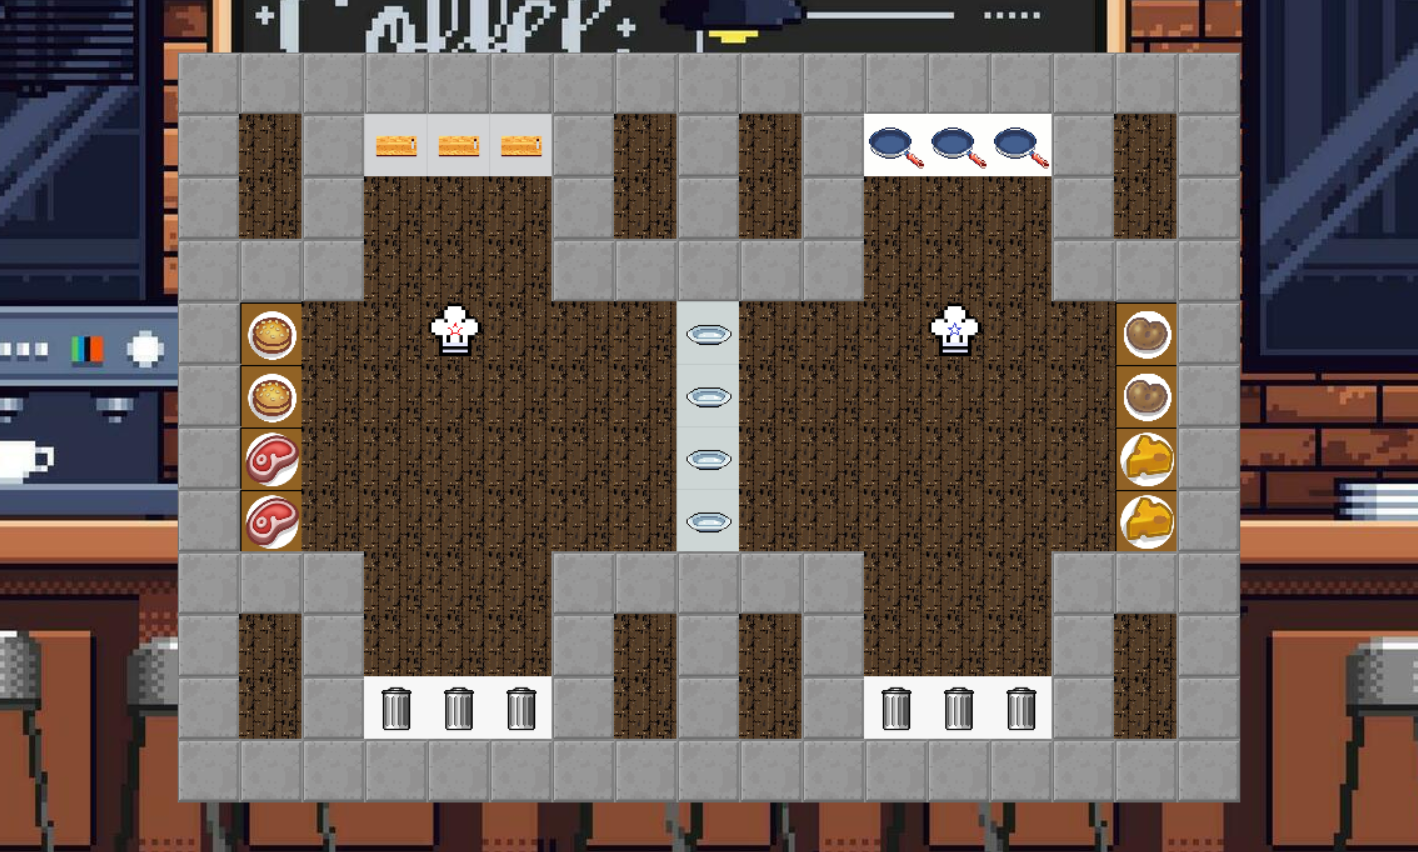
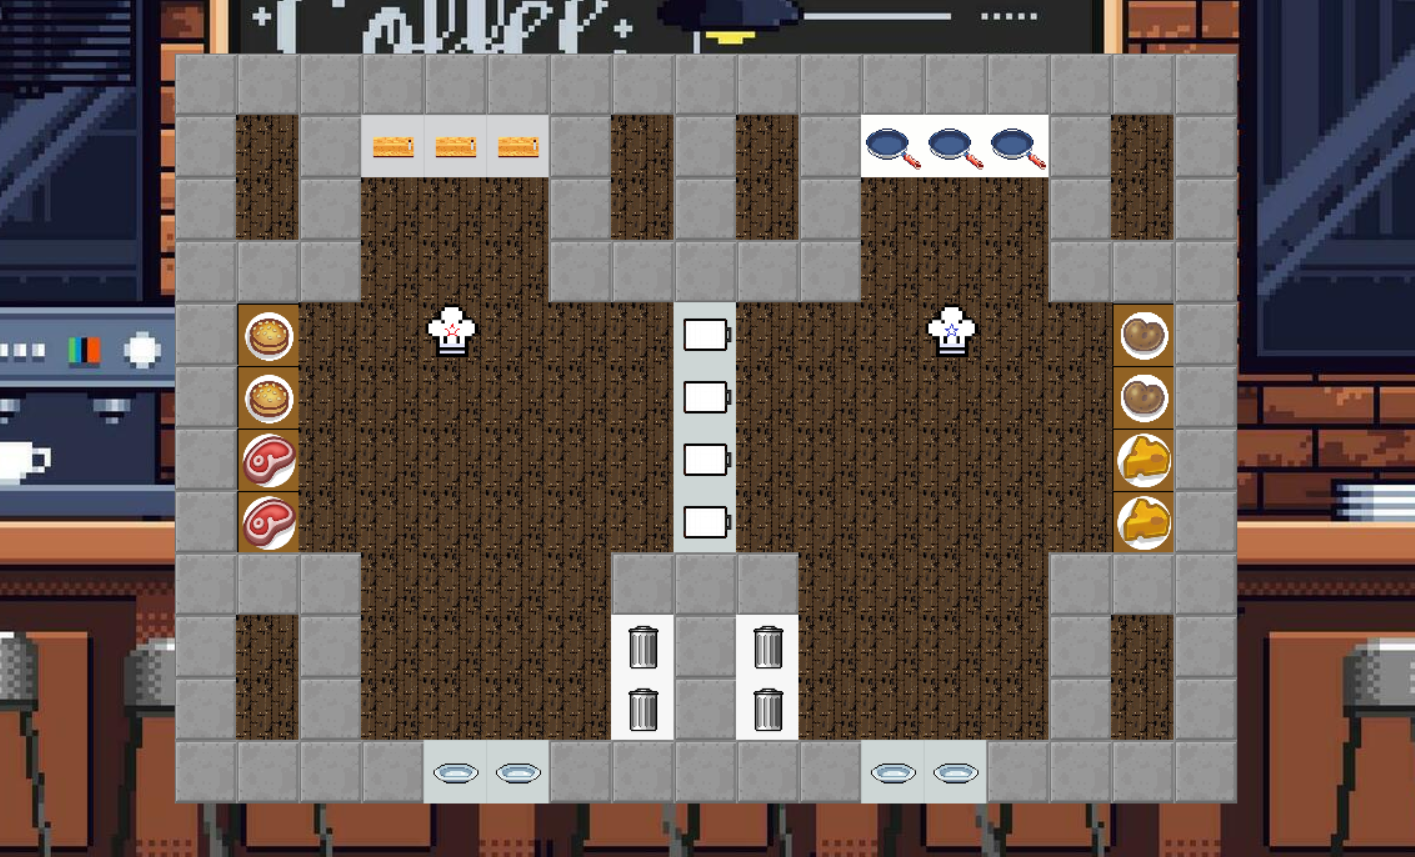
Añadidos mostradores simples

diff --git a/assets/classes.py b/assets/classes.py
@@ -477,7 +477,7 @@ class EscenarioList:
             # Simbología:
             # 0 = Suelo
             # 1 = Pared
-            # 2 = Mostrador
+            # 2 = Mostrador (Si se coloca abajo es para entregas)
             # 3 = Almacén 1
             # 4 = Almacén 2
             # 5 = Almacén 3
@@ -624,7 +624,7 @@ class EscenarioList:
             # Simbología:
             # 0 = Suelo
             # 1 = Pared
-            # 2 = Mostrador
+            # 2 = Mostrador (Si se coloca abajo es para entregas)
             # 3 = Almacén 1
             # 4 = Almacén 2
             # 5 = Almacén 3
@@ -634,24 +634,24 @@ class EscenarioList:
             # 9 = Estación 2
     
             layout = [
-                [1, 1, 1, 1, 1, 1, 1, 1, 1, 1, 1],
-                [1, 3, 3, 4, 4, 1, 5, 5, 6, 6, 1],
-                [1, 0, 0, 0, 0, 1, 0, 0, 0, 0, 1],
-                [1, 0, 0, 0, 0, 1, 0, 0, 0, 0, 1],
-                [1, 9, 0, 0, 0, 1, 0, 0, 0, 9, 1],
-                [1, 1, 1, 1, 0, 0, 0, 1, 1, 1, 1],
-                [1, 0, 0, 0, 0, 1, 0, 0, 0, 0, 1],
-                [1, 0, 0, 0, 0, 1, 0, 0, 0, 0, 1],
-                [1, 7, 7, 7, 0, 1, 0, 8, 8, 8, 1],
-                [1, 0, 0, 0, 0, 1, 0, 0, 0, 0, 1],
-                [1, 0, 0, 0, 0, 1, 0, 0, 0, 0, 1],
-                [1, 1, 1, 2, 2, 1, 2, 2, 1, 1, 1]
+                [1, 1, 1, 1, 1, 1, 1, 1, 1, 1, 1, 1],
+                [1, 3, 3, 4, 4, 1, 1, 5, 5, 6, 6, 1],
+                [1, 0, 0, 0, 0, 7, 1, 0, 0, 0, 0, 1],
+                [1, 0, 0, 0, 0, 7, 1, 0, 0, 0, 0, 1],
+                [1, 0, 0, 0, 0, 8, 1, 0, 0, 0, 0, 1],
+                [1, 9, 0, 0, 0, 8, 1, 0, 0, 0, 0, 1],
+                [1, 1, 2, 2, 1, 1, 1, 0, 0, 0, 0, 1],
+                [1, 0, 0, 0, 0, 0, 0, 0, 0, 0, 0, 1],
+                [1, 0, 0, 0, 0, 0, 0, 0, 0, 0, 0, 1],
+                [1, 0, 0, 0, 0, 0, 0, 0, 0, 0, 0, 1],
+                [1, 0, 0, 0, 0, 0, 0, 0, 0, 0, 9, 1],
+                [1, 1, 1, 1, 2, 2, 2, 2, 1, 1, 1, 1]
             ],
             
             # Tamaños y posiciones
             tamaño = 50,
-            posChef1 = [4, 9],
-            posChef2 = [7, 9],
+            posChef1 = [3, 4],
+            posChef2 = [8, 8],
             
             # Tipos de estaciones
             caja3 = Caja("Lechugas", Item("Lechuga", 1, "assets/img/lechuga.png")),
@@ -763,7 +763,7 @@ class EscenarioList:
             # Simbología:
             # 0 = Suelo
             # 1 = Pared
-            # 2 = Mostrador
+            # 2 = Mostrador (Si se coloca abajo es para entregas)
             # 3 = Almacén 1
             # 4 = Almacén 2
             # 5 = Almacén 3
@@ -781,10 +781,10 @@ class EscenarioList:
                 [1, 5, 0, 0, 0, 0, 0, 0, 2, 0, 0, 0, 0, 0, 0, 4, 1],
                 [1, 3, 0, 0, 0, 0, 0, 0, 2, 0, 0, 0, 0, 0, 0, 6, 1],
                 [1, 3, 0, 0, 0, 0, 0, 0, 2, 0, 0, 0, 0, 0, 0, 6, 1],
-                [1, 1, 1, 0, 0, 0, 1, 1, 1, 1, 1, 0, 0, 0, 1, 1, 1],
-                [1, 0, 1, 0, 0, 0, 1, 0, 1, 0, 1, 0, 0, 0, 1, 0, 1],
-                [1, 0, 1, 9, 9, 9, 1, 0, 1, 0, 1, 9, 9, 9, 1, 0, 1],
-                [1, 1, 1, 1, 1, 1, 1, 1, 1, 1, 1, 1, 1, 1, 1, 1, 1],
+                [1, 1, 1, 0, 0, 0, 0, 1, 1, 1, 0, 0, 0, 0, 1, 1, 1],
+                [1, 0, 1, 0, 0, 0, 0, 9, 1, 9, 0, 0, 0, 0, 1, 0, 1],
+                [1, 0, 1, 0, 0, 0, 0, 9, 1, 9, 0, 0, 0, 0, 1, 0, 1],
+                [1, 1, 1, 1, 2, 2, 1, 1, 1, 1, 1, 2, 2, 1, 1, 1, 1],
             ],
             
             # Tamaños y posiciones

diff --git a/assets/game_screen.py b/assets/game_screen.py
@@ -186,12 +186,7 @@ class GameFrame(StyledFrame):
             self.canvas_bg.destroy()
             self.canvas_fg.destroy()
             
-            self.mostradores = [
-                Mostrador("Mostrador 1", self.default_item),
-                Mostrador("Mostrador 2", self.default_item),
-                Mostrador("Mostrador 3", self.default_item),
-                Mostrador("Mostrador 4", self.default_item)
-            ]
+            self.mostradores = []
             self.mostradores_img = []
         
             # Se eliminan los pedidos
@@ -219,12 +214,7 @@ class GameFrame(StyledFrame):
         self.fase_tiempo = 1 # Fase 1
         
         # Se inicializan los mostradores
-        self.mostradores = [
-            Mostrador("Mostrador 1", self.default_item),
-            Mostrador("Mostrador 2", self.default_item),
-            Mostrador("Mostrador 3", self.default_item),
-            Mostrador("Mostrador 4", self.default_item)
-        ]
+        self.mostradores = []
         
         self.mostradores_img = []
 
@@ -289,14 +279,20 @@ class GameFrame(StyledFrame):
                     
                 elif obj == 2: # Mostrador
                     tipo = "green"
-                    block_img = tk.PhotoImage(file="assets/img/plato.png").subsample(5,5)
+                    
+                    # Guardar mostradores simples
+                    if y2 != len(self.escenario.layout)*size:
+                        block_img = tk.PhotoImage(file="assets/img/mostrador.png").subsample(5,5)
+                    else:
+                        # Guardar mostradores de entregas
+                        block_img = tk.PhotoImage(file="assets/img/plato.png").subsample(5,5)
                     
                     # Se guardan las coordenadas
-                    for i in self.mostradores:
-                        if i.x == 0 and i.y == 0:
-                            i.x = x1
-                            i.y = y1
-                            break
+                    self.mostradores.append(Mostrador("Mostrador", self.default_item))
+                    
+                    self.mostradores[-1].x = x1
+                    self.mostradores[-1].y = y1
+                        
                 
                 # Cajas
                 elif obj >= 3 and obj <= 6:
@@ -404,7 +400,10 @@ class GameFrame(StyledFrame):
         def verificar_receta():
             
             # Revisar items en mostradores
-            items_en_mostradores = [m.item for m in self.mostradores]
+            items_en_mostradores = []
+            for m in self.mostradores:
+                if m.y == len(self.escenario.layout)*size-size:
+                    items_en_mostradores.append(m.item)
             
             if all(item.name != self.default_item.name for item in items_en_mostradores):
                 